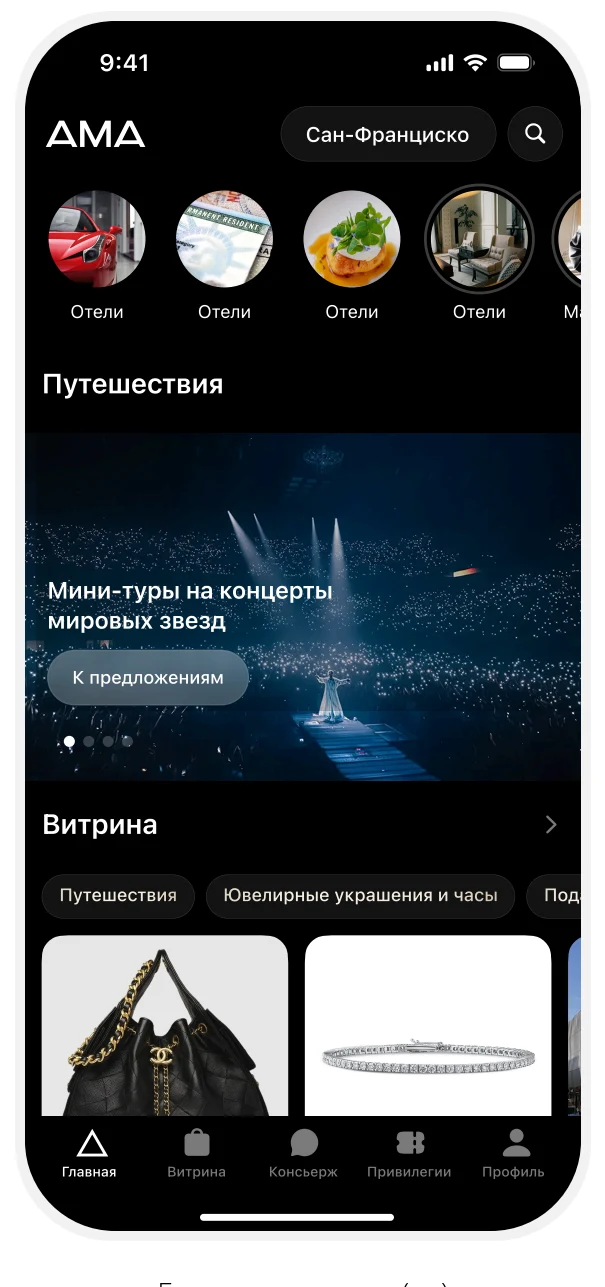
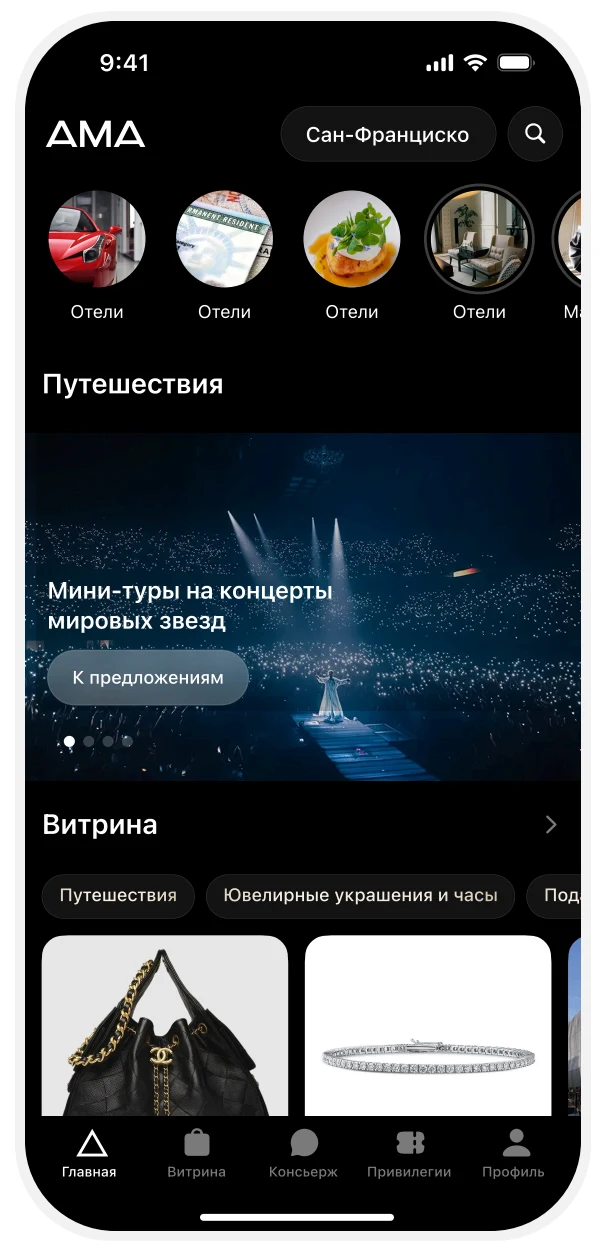
Фикс запёкшихся подписей на мокапах АМА, реальные контакты (TG + CV), кнопка «наверх» не наезжает на навигацию

diff --git a/src/components/Sidebar.tsx b/src/components/Sidebar.tsx
@@ -32,7 +32,9 @@ export default function Sidebar() {
 
         <div className="flex gap-2.5">
           <a
-            href={profile.email}
+            href={profile.contact}
+            target="_blank"
+            rel="noopener noreferrer"
             className="bg-pill inline-flex items-center gap-2 rounded-full px-5 py-2.5 text-sm font-medium text-white transition-transform hover:scale-[1.03] active:scale-95"
           >
             <svg width="14" height="14" viewBox="0 0 24 24" fill="currentColor" aria-hidden>
@@ -42,6 +44,8 @@ export default function Sidebar() {
           </a>
           <a
             href={profile.cv}
+            target="_blank"
+            rel="noopener noreferrer"
             className="border-line inline-flex items-center gap-2 rounded-full border bg-white px-5 py-2.5 text-sm font-medium transition-transform hover:scale-[1.03] active:scale-95"
           >
             <svg width="14" height="14" viewBox="0 0 24 24" fill="none" stroke="currentColor" strokeWidth="2" aria-hidden>

diff --git a/src/data.ts b/src/data.ts
@@ -253,8 +253,8 @@ export const profile = {
   grade: '(Senior UX/UI)',
   intro:
     'Привет, меня зовут Константин — продуктовый дизайнер, который успешно сочетает креативное мышление и стратегический подход для создания инновационных и удобных продуктов.',
-  email: 'mailto:[email redacted]',
-  cv: '#',
+  contact: 'https://t.me/design_badman',
+  cv: 'https://docs.google.com/document/d/1_i4bTUx2DDxh657j1yRCmiogHx8ZfnYRnIIQrEBzAKo/view',
 }
 
 export const navItems = [

diff --git a/src/components/ScrollTop.tsx b/src/components/ScrollTop.tsx
@@ -20,7 +20,7 @@ export default function ScrollTop() {
           animate={{ opacity: 1, scale: 1 }}
           exit={{ opacity: 0, scale: 0.8 }}
           onClick={() => window.scrollTo({ top: 0, behavior: 'smooth' })}
-          className="border-line fixed right-5 bottom-5 z-50 flex size-11 items-center justify-center rounded-full border bg-white shadow-lg transition-transform hover:-translate-y-0.5"
+          className="border-line fixed right-4 bottom-20 z-50 lg:right-5 lg:bottom-5 flex size-11 items-center justify-center rounded-full border bg-white shadow-lg transition-transform hover:-translate-y-0.5"
           aria-label="Наверх"
         >
           <svg width="16" height="16" viewBox="0 0 24 24" fill="none" stroke="currentColor" strokeWidth="2" aria-hidden>